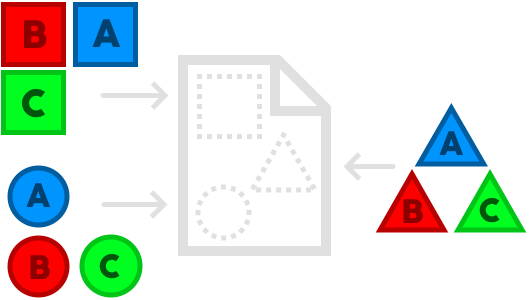
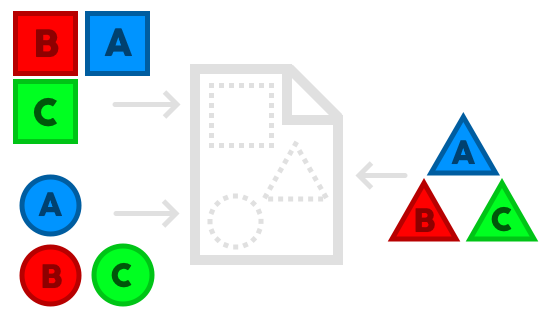
refactor: Updated aula8 to latest version

diff --git a/webmac/aula8.html b/webmac/aula8.html
@@ -5,7 +5,7 @@
 
         <meta charset="UTF-8">
         <meta name="viewport" content="width=device-width, initial-scale=1.0">
-        <title>Aula 8: HTMX</title>
+        <title>Aula 8: Introdução ao HTMX</title>
         <link rel="preconnect" href="https://fonts.googleapis.com">
         <link rel="preconnect" href="https://fonts.gstatic.com" crossorigin>
         <link href="https://fonts.googleapis.com/css2?family=Roboto:wght@300;400;700&display=swap" rel="stylesheet">
@@ -91,7 +91,7 @@
 
         <div>
 
-            <h1>Aula 8: HTMX</h1>
+            <h1>Aula 8: Introdução ao HTMX</h1>
 
             <h3><a href="../../index.html">Página inicial</a></h3>
 
@@ -104,7 +104,7 @@
 
                 <li><a href="#Introducao">Introdução</a></li>
                 <li><a href="#crud">CRUD</a></li>
-                <li><a href="#rest">REST e HATEOAS</a></li>
+                <li><a href="#rest">REST</a></li>
                 <li><a href="#spa">MPA e SPA</a></li>
                 <li><a href="#ajax">AJAX</a></li>
                 <li><a href="#htmx">HTMX</a></li>
@@ -131,9 +131,16 @@
         </div>
 
         <div id="rest">
-            <h2>REST e HATEOAS</h2>
-            <p>REST (Representational State Transfer) é um estilo de arquitetura de software para APIs que se utiliza de hipermídia para que o cliente receba uma resposta que ele possa renderizar sem que tenha informações sobre a API.</p>
-            <p>Os conceitos fundamentais do REST que fazem com que ele se destaque são a Interface Uniforme e o HATEOAS (Hypermedia As The Engine Of Application State). Para explicar esses conceitos, considere o trecho de HTML abaixo:</p>
+            <h2>REST</h2>
+            <p>REST (Representational State Transfer) é um estilo de arquitetura de software para APIs que facilita a comunicação entre sistemas web. O conceito fundamental do REST, que faz com que ele se destaque, é a Interface Uniforme, que possui quatro características principais:</p>
+            <ol>
+                <li>Identificação de recursos</li>
+                <li>Manipulação de recursos por representação</li>
+                <li>Mensagens auto-descritivas</li>
+                <li>HATEOAS (Hypermedia as the engine of application state)</li>
+            </ol>
+            <p>Para explicar esses conceitos, considere o trecho de HTML abaixo:</p>
+
             <pre><code class="language-html">&lt;body&gt;
     &lt;section&gt;
         &lt;p&gt;
@@ -149,12 +156,20 @@
         &lt;/p&gt;
     &lt;/section&gt;
 &lt;/body&gt;</code></pre>
+
             <p>Suponha que este HTML é retornado pelo servidor ao acessar <code>www.exemplo.com/contatos/37</code>.</p>
-            <p>O primeiro aspecto do REST é a idéia de que recursos (nesse caso, o contato) podem ser encontrados na URL. Note que no HTML, retornado pelo servidor ao acessar a URL, existem links em tags <code>&lt;a&gt;</code> que indicam as operações que são aplicáveis ao contato 37.</p>
-            <p>O aspecto mais fundamental para a distinção do REST são as mensagens auto-descritivas. Note que o HTML e URL contém todas as informações necessárias para que o navegador/cliente saiba todas as informações sobre o contato e quais operações são aplicáveis a ele, e isso sem ter contato nenhum com a API ou o banco de dados.</p>
-            <p>O conceito de HATEOAS representa a utilização de hipermídia exemplificada acima, com ela sendo o intermediário entre o cliente e o servidor.</p>
-            <p>Atualmente, a arquitetura REST é muito popular, mas é muitas vezes referenciada erroneamente. É comum a associação de REST com APIs de JSON, duas coisas que não são iguais.</p>
-            <p>Leia mais sobre essa confusã<o></o> nesse <a href="https://htmx.org/essays/how-did-rest-come-to-mean-the-opposite-of-rest/">artigo</a> da própria ORG HTMX.</p>
+
+            <p>Vamos passar por cada característica e analisar o código acima:</p>
+
+            <ol>
+                <li><code>Identificação de recursos</code>: O primeiro aspecto do REST é a idéia de que recursos (nesse caso, o contato) podem ser encontrados na URL (Universal Resource Locator). Note tambpem que o HTML, retornado pelo servidor ao acessar a URL, contém links em tags <code>&lt;a&gt;</code> que indicam as operações que são aplicáveis ao nosso recurso (contato 37) e elas seguem o padrão convencional de hierarquia das URLs.</li>
+                <li><code>Manipulação de recursos por representação</code>: Isso apenas significa que é possível alterar nosso recurso por meio de representações (como páginas HTML) ao invés de precisar fazer consultas SQL, por exemplo.</li>
+                <li><code>Mensagens auto-descritivas</code>: Mesmo com o cliente (browser) não tendo nenhuma informação sobre o funcionamento da API ou o banco de dados, ele tem todas as informações sobre quais ações estão disponíveis para esse recurso e como renderizá-las.</li>
+                <li><code>HATEOAS</code>: Este último conceito se encaixa perfeitamente com o anterior: os clientes transitam entre os estados da aplicação interagindo com URLs encontradas no próprio hipertexto (por meio de formulários e links). Assim, no exemplo de HTML acima, a capacidade de editar, enviar por e-mail e arquivar o contato está codificada como âncoras no HTML. Se uma dessas ações não estivesse disponível, ou se uma nova se tornasse disponível, ela apareceria em um novo trecho de HTML após a atualização da página. Isso contrasta com uma abordagem de cliente robusto, onde, por exemplo, um armazenamento local pode ser sincronizado de forma assíncrona com um servidor back-end e, portanto, o HTML não atua como o mecanismo do estado do aplicativo, mas sim como uma linguagem de descrição de interface do usuário (um tanto instável).</li>
+            </ol>
+
+            <p>Atualmente, a arquitetura REST é muitas vezes referenciada erroneamente. É comum a associação de REST com APIs de JSON, duas coisas que não são iguais. Até mesmo pois JSON não é totalmente auto-descritivo, por exemplo.</p>
+            <p>Leia mais sobre essa confusão nesse <a href="https://htmx.org/essays/how-did-rest-come-to-mean-the-opposite-of-rest/">artigo</a> da própria ORG HTMX.</p>
         </div>
 
         <div id="spa">
@@ -402,8 +417,7 @@ from fastapi.templating import Jinja2Templates
 
 app = FastAPI()
 
-templates = Jinja2Templates(directory="Templates")
-partials = Jinja2Templates(directory="Templates/Partials")
+templates = Jinja2Templates(directory=["Templates", "Templates/Partials"])
 
 @app.get("/home",response_class=HTMLResponse)
 async def root(request: Request):
@@ -411,11 +425,11 @@ async def root(request: Request):
 
 @app.get("/home/pagina1", response_class=HTMLResponse)
 async def pag1(request: Request):
-    return partials.TemplateResponse(request, "Pagina1.html")
+    return templates.TemplateResponse(request, "Pagina1.html")
 
 @app.get("/home/pagina2", response_class=HTMLResponse)
 async def pag2(request: Request):
-    return partials.TemplateResponse(request, "Pagina2.html")</code></pre>
+    return templates.TemplateResponse(request, "Pagina2.html")</code></pre>
 
             <p>É possível realizar uma verificação sobre o tipo de request que está sendo feito, e isso nos possibilita separar requests HTMX dos demais. Dessa forma, quando detectarmos que o request para o conteúdo das páginas não é HTMX (foi um request feito diretamente pela URL), podemos pedir para que seja renderizada a página completa.</p>
             <p>Observe o código abaixo que contém essa verificação para ambas as páginas.</p>
@@ -426,13 +440,13 @@ async def pag2(request: Request):
 async def pag1(request: Request):
     if (not "HX-Request" in request.headers):
         return templates.TemplateResponse(request, "index.html")
-    return partials.TemplateResponse(request, "Pagina1.html")
+    return templates.TemplateResponse(request, "Pagina1.html")
 
 @app.get("/home/pagina2", response_class=HTMLResponse)
 async def pag2(request: Request):
     if (not "HX-Request" in request.headers):
         return templates.TemplateResponse(request, "index.html")
-    return partials.TemplateResponse(request, "Pagina2.html")</code></pre>
+    return templates.TemplateResponse(request, "Pagina2.html")</code></pre>
 
             <p>Agora, ao acessar as URLs <code>/home</code> e <code>/home/paginaX</code>, toda a página será sempre renderizada corretamente.</p>
             <p>O último problema que encontramos é que, ao acessar <code>/home/pagina2</code>, a página 1 que é renderizada. Por fim, podemos utilizar uma variável de contexto para indicar para o 'index.html' qual página deve ser renderizada.</p>
@@ -446,8 +460,7 @@ from fastapi.templating import Jinja2Templates
 
 app = FastAPI()
 
-templates = Jinja2Templates(directory="Templates")
-partials = Jinja2Templates(directory="Templates/Partials")
+templates = Jinja2Templates(directory=["Templates", "Templates/Partials"])
 
 @app.get("/home",response_class=HTMLResponse)
 async def root(request: Request):
@@ -457,13 +470,13 @@ async def root(request: Request):
 async def pag1(request: Request):
     if (not "HX-Request" in request.headers):
         return templates.TemplateResponse(request, "index.html", {"pagina": "/home/pagina1"})
-    return partials.TemplateResponse(request, "Pagina1.html")
+    return templates.TemplateResponse(request, "Pagina1.html")
 
 @app.get("/home/pagina2", response_class=HTMLResponse)
 async def pag2(request: Request):
     if (not "HX-Request" in request.headers):
         return templates.TemplateResponse(request, "index.html", {"pagina": "/home/pagina2"})
-    return partials.TemplateResponse(request, "Pagina2.html")</code></pre>
+    return templates.TemplateResponse(request, "Pagina2.html")</code></pre>
 
             <pre><code class="language-html">&lt;!-- Arquivo index.html --&gt;
 
